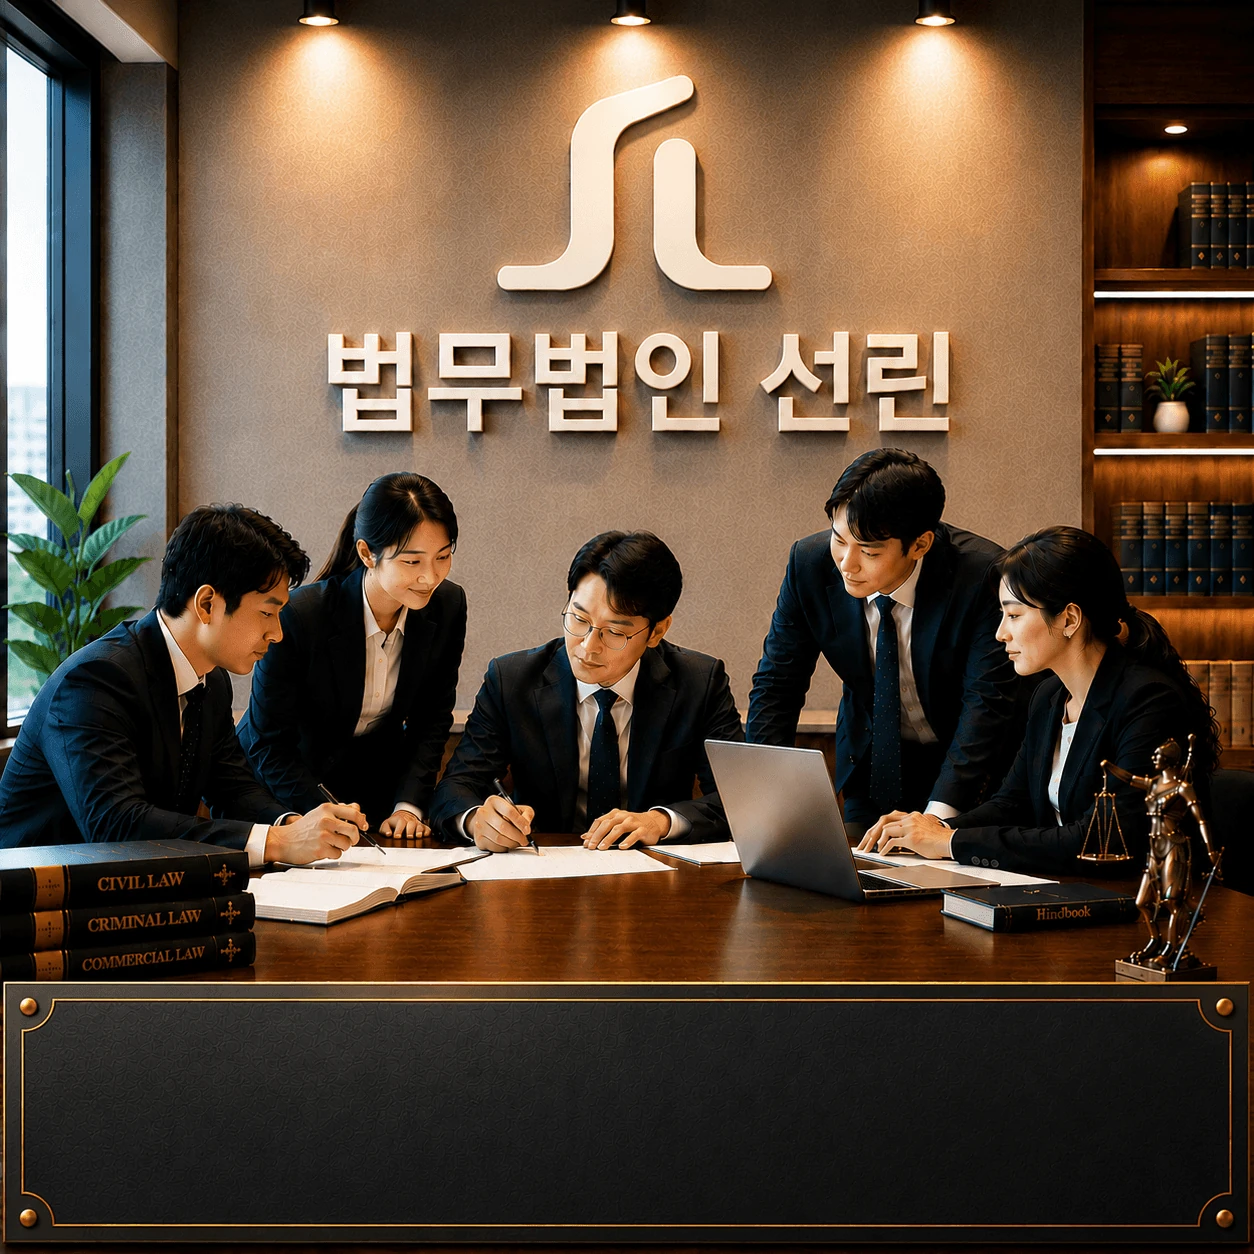
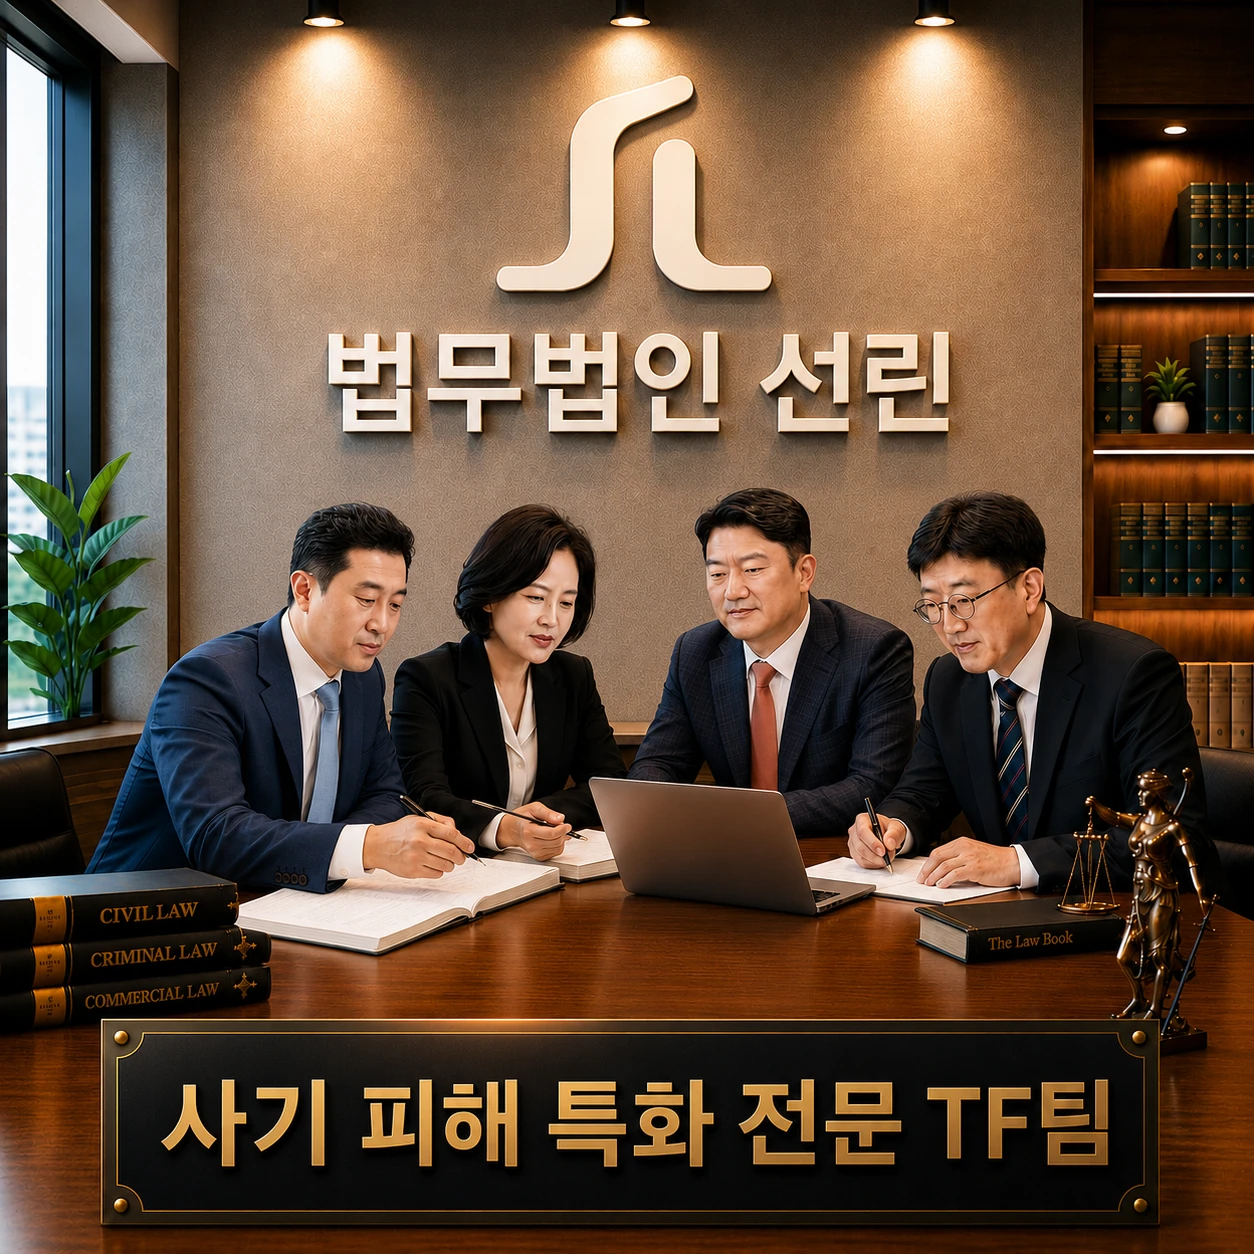
Replace landing thumbnails with TF team artwork

diff --git a/functions/og/[[path]].js b/functions/og/[[path]].js
@@ -216,8 +216,6 @@ function shortTitle(title = "", max = 28) {
 
 function buildSvg(title, templateHref, seed = "", badge = "") {
   const lines = splitTitle(title);
-  const variant = variantForImage(title, seed);
-  const topLabel = shortTitle(title);
   const maxUnits = Math.max(...lines.map(textUnits), 1);
   const fontSize = lines.length > 1
     ? Math.min(86, Math.max(58, Math.floor(920 / maxUnits)))
@@ -228,34 +226,23 @@ function buildSvg(title, templateHref, seed = "", badge = "") {
 
   return `<svg xmlns="http://www.w3.org/2000/svg" width="${TEMPLATE_WIDTH}" height="${TEMPLATE_HEIGHT}" viewBox="0 0 ${TEMPLATE_WIDTH} ${TEMPLATE_HEIGHT}">
 <defs>
+  <linearGradient id="plaqueFill" x1="0" y1="0" x2="0" y2="1">
+    <stop offset="0%" stop-color="#15130f"/>
+    <stop offset="48%" stop-color="#070706"/>
+    <stop offset="100%" stop-color="#11100d"/>
+  </linearGradient>
   <linearGradient id="goldText" x1="0" y1="0" x2="0" y2="1">
     <stop offset="0%" stop-color="#ffd86f"/>
     <stop offset="52%" stop-color="#f0b430"/>
     <stop offset="100%" stop-color="#c97912"/>
   </linearGradient>
-  <linearGradient id="caseAccent" x1="0" y1="0" x2="1" y2="0">
-    <stop offset="0%" stop-color="${variant.base}"/>
-    <stop offset="68%" stop-color="${variant.accent}"/>
-    <stop offset="100%" stop-color="${variant.stripe}"/>
-  </linearGradient>
-  <pattern id="casePattern" patternUnits="userSpaceOnUse" width="96" height="96" patternTransform="rotate(-18 ${variant.stripeOffset} 0)">
-    <path d="M0 24H96M0 72H96" stroke="${variant.stripe}" stroke-width="7" opacity="0.38"/>
-  </pattern>
   <filter id="textShadow" x="-12%" y="-22%" width="124%" height="144%">
     <feDropShadow dx="0" dy="4" stdDeviation="1.8" flood-color="#000000" flood-opacity="0.86"/>
   </filter>
 </defs>
 <image href="${templateHref}" x="0" y="0" width="${TEMPLATE_WIDTH}" height="${TEMPLATE_HEIGHT}" preserveAspectRatio="xMidYMid slice"/>
-<rect x="0" y="0" width="${TEMPLATE_WIDTH}" height="${TEMPLATE_HEIGHT}" fill="${variant.base}" opacity="0.075"/>
-<rect x="0" y="0" width="${TEMPLATE_WIDTH}" height="${TEMPLATE_HEIGHT}" fill="url(#casePattern)" opacity="0.09"/>
-<path d="M0 0H1254V150H0Z" fill="url(#caseAccent)" opacity="${variant.bandOpacity.toFixed(2)}"/>
-<rect x="44" y="37" width="156" height="76" rx="0" fill="#ffffff" opacity="0.92"/>
-<text x="122" y="77" font-family="Pretendard,sans-serif" font-size="24" font-weight="900" letter-spacing="0" fill="${variant.base}" text-anchor="middle" dominant-baseline="middle">CASE</text>
-<text x="122" y="101" font-family="Pretendard,sans-serif" font-size="20" font-weight="900" letter-spacing="0" fill="${variant.accent}" text-anchor="middle" dominant-baseline="middle">${variant.code}</text>
-<text x="234" y="77" font-family="Pretendard,sans-serif" font-size="42" font-weight="900" letter-spacing="0" fill="#fff8df" text-anchor="start" dominant-baseline="middle" filter="url(#textShadow)">${escSvg(topLabel)}</text>
+<rect x="131" y="1044" width="992" height="160" fill="url(#plaqueFill)"/>
 ${lines.map((line, index) => `<text x="627" y="${Math.round(firstY + index * lineHeight)}" font-family="Pretendard,sans-serif" font-size="${fontSize}" font-weight="900" letter-spacing="0" fill="url(#goldText)" stroke="#120800" stroke-width="${strokeWidth}" paint-order="stroke fill" text-anchor="middle" dominant-baseline="middle" text-rendering="geometricPrecision" filter="url(#textShadow)">${escSvg(line)}</text>`).join("\n")}
-${badge ? `<rect x="${1210 - (badge.length * 15 + 40)}" y="37" width="${badge.length * 15 + 40}" height="46" rx="23" fill="#0f2745" opacity="0.92"/>
-<text x="${1210 - (badge.length * 15 + 40) / 2}" y="61" font-family="Pretendard,sans-serif" font-size="22" font-weight="900" letter-spacing="0" fill="#7ec2ff" text-anchor="middle" dominant-baseline="middle">${escSvg(badge)}</text>` : ""}
 </svg>`;
 }
 

diff --git a/functions/_seo.js b/functions/_seo.js
@@ -13,7 +13,7 @@ export const RECENT_SITEMAP_DAYS = 14;
 export const RECENT_SITEMAP_LIMIT = 300;
 export const RSS_LIMIT = 120;
 export const SEO_STABILIZED_AT = "2026-07-23";
-export const OG_IMAGE_VERSION = "20260723a1";
+export const OG_IMAGE_VERSION = "20260914tf1";
 export const OG_IMAGE_WIDTH = 1254;
 export const OG_IMAGE_HEIGHT = 1254;
 
